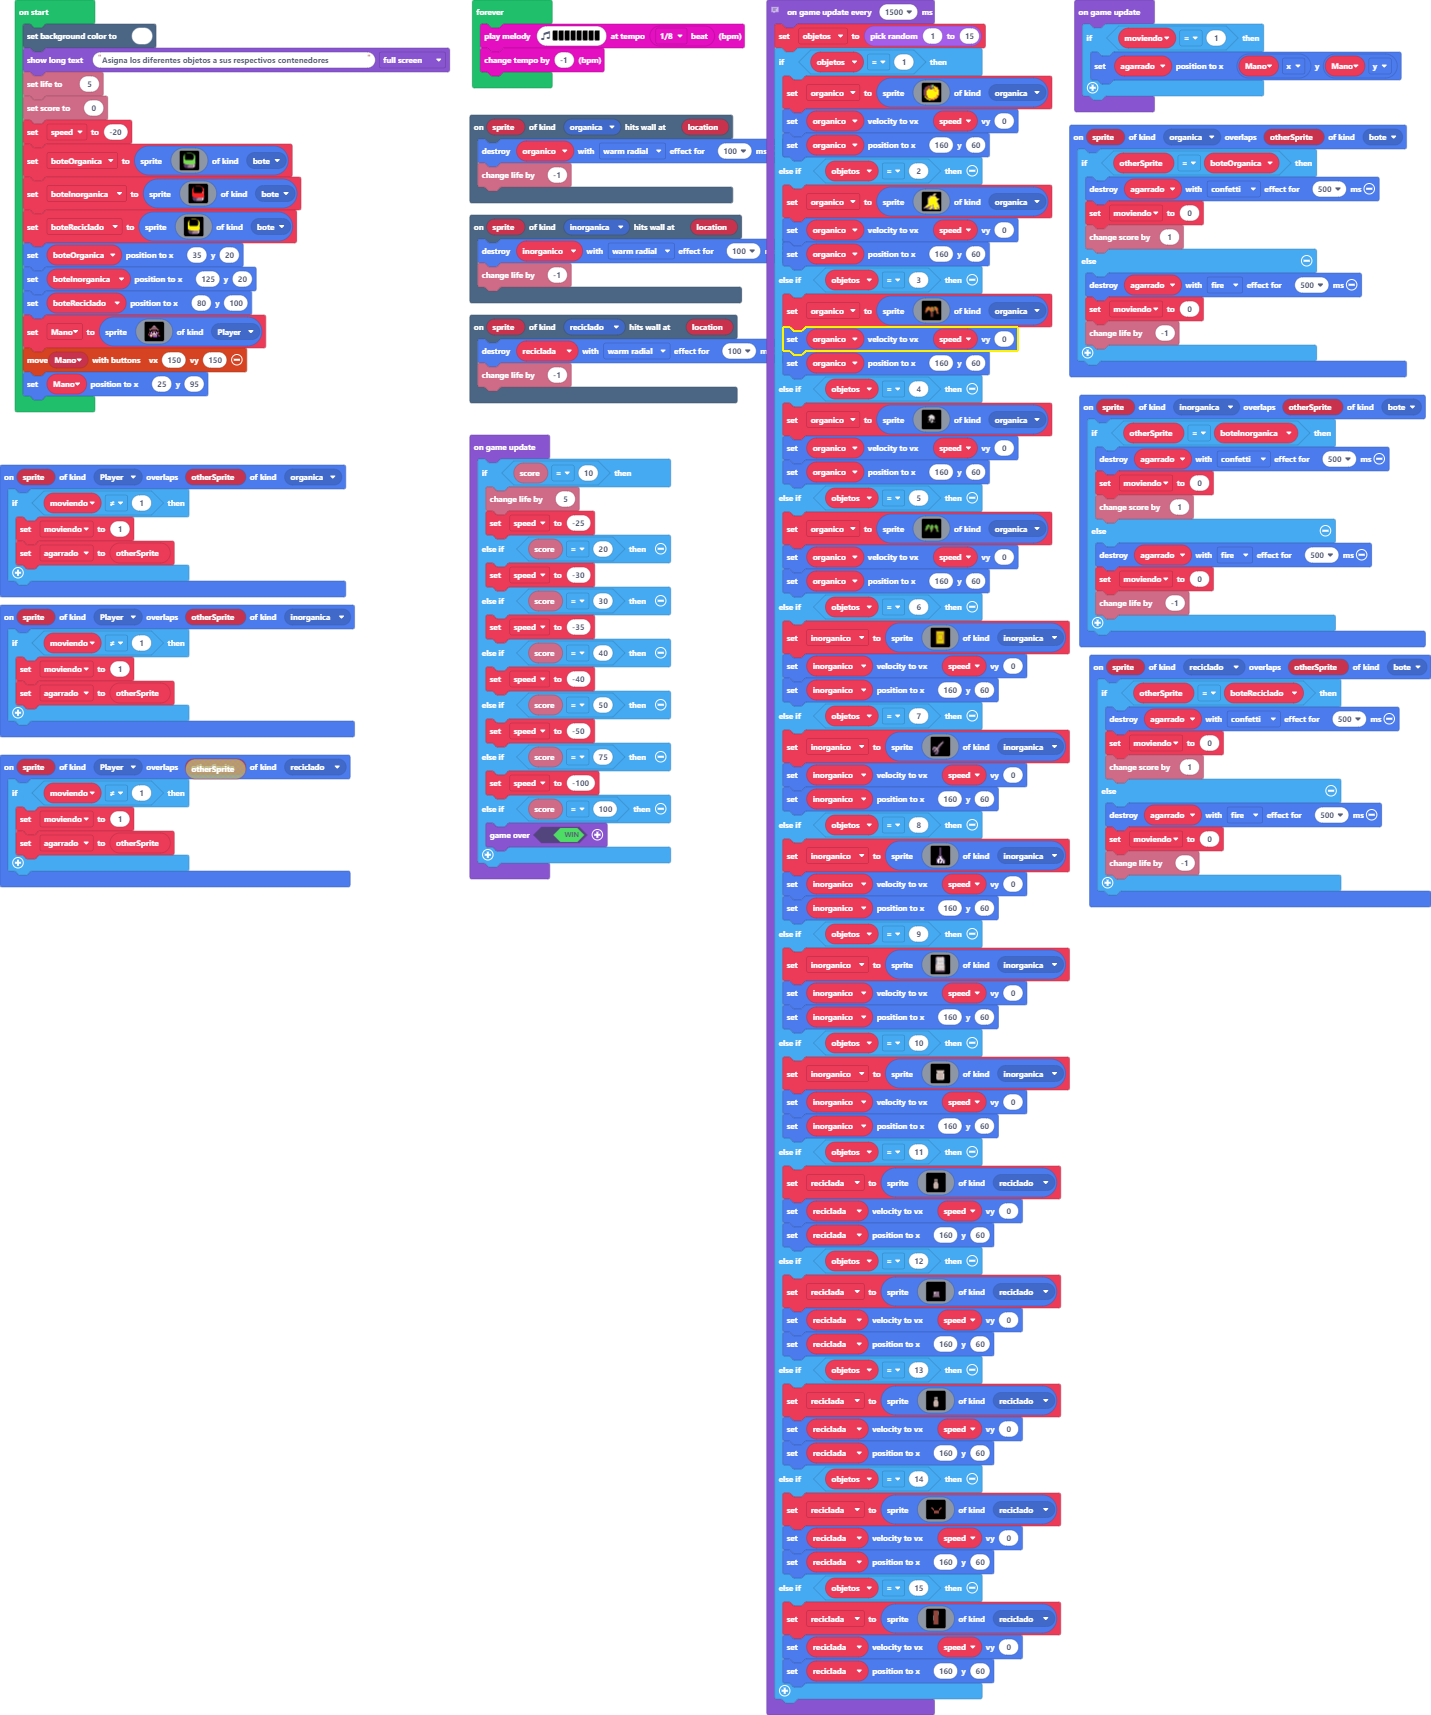
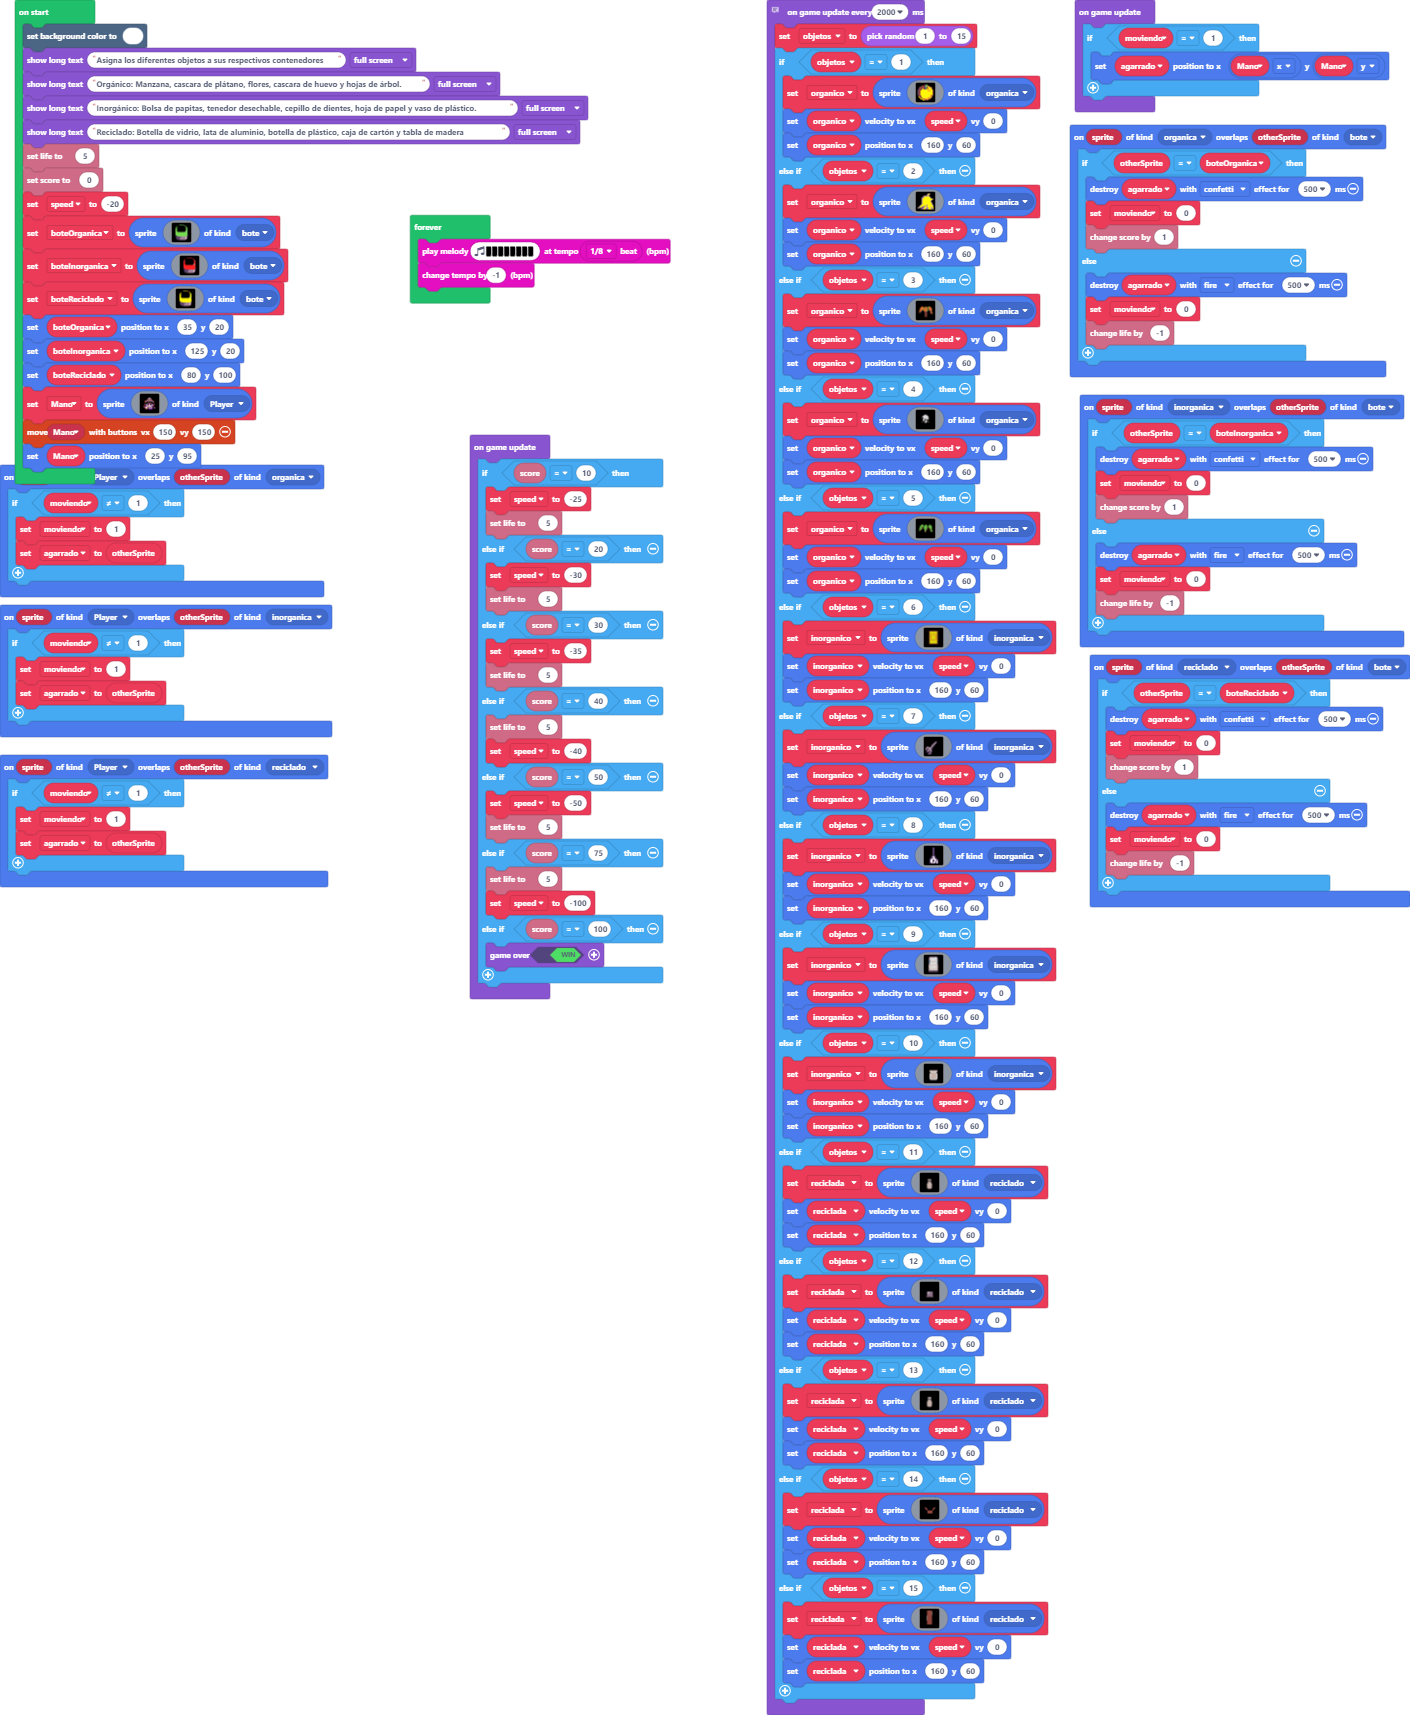
juego final

diff --git a/main.ts b/main.ts
@@ -16,10 +16,6 @@ sprites.onOverlap(SpriteKind.reciclado, SpriteKind.bote, function (sprite, other
         info.changeLifeBy(-1)
     }
 })
-scene.onHitWall(SpriteKind.reciclado, function (sprite, location) {
-    reciclada.destroy(effects.warmRadial, 100)
-    info.changeLifeBy(-1)
-})
 sprites.onOverlap(SpriteKind.organica, SpriteKind.bote, function (sprite, otherSprite) {
     if (otherSprite == boteOrganica) {
         agarrado.destroy(effects.confetti, 500)
@@ -31,19 +27,11 @@ sprites.onOverlap(SpriteKind.organica, SpriteKind.bote, function (sprite, otherS
         info.changeLifeBy(-1)
     }
 })
-scene.onHitWall(SpriteKind.inorganica, function (sprite, location) {
-    inorganico.destroy(effects.warmRadial, 100)
-    info.changeLifeBy(-1)
-})
 sprites.onOverlap(SpriteKind.Player, SpriteKind.inorganica, function (sprite, otherSprite) {
     if (moviendo != 1) {
         moviendo = 1
         agarrado = otherSprite
     }
-})
-scene.onHitWall(SpriteKind.organica, function (sprite, location) {
-    organico.destroy(effects.warmRadial, 100)
-    info.changeLifeBy(-1)
 })
 sprites.onOverlap(SpriteKind.Player, SpriteKind.reciclado, function (sprite, otherSprite) {
     if (moviendo != 1) {
@@ -68,10 +56,10 @@ sprites.onOverlap(SpriteKind.inorganica, SpriteKind.bote, function (sprite, othe
         info.changeLifeBy(-1)
     }
 })
-let objetos = 0
-let organico: Sprite = null
-let inorganico: Sprite = null
 let reciclada: Sprite = null
+let inorganico: Sprite = null
+let organico: Sprite = null
+let objetos = 0
 let moviendo = 0
 let agarrado: Sprite = null
 let boteReciclado: Sprite = null
@@ -79,6 +67,9 @@ let boteInorganica: Sprite = null
 let boteOrganica: Sprite = null
 scene.setBackgroundColor(1)
 game.showLongText("Asigna los diferentes objetos a sus respectivos contenedores", DialogLayout.Full)
+game.showLongText("Orgánico: Manzana, cascara de plátano, flores, cascara de huevo y hojas de árbol.", DialogLayout.Full)
+game.showLongText("Inorgánico: Bolsa de papitas, tenedor desechable, cepillo de dientes, hoja de papel y vaso de plástico.", DialogLayout.Full)
+game.showLongText("Reciclado: Botella de vidrio, lata de aluminio, botella de plástico, caja de cartón y tabla de madera", DialogLayout.Full)
 info.setLife(5)
 info.setScore(0)
 let speed = -20
@@ -214,17 +205,22 @@ game.onUpdate(function () {
 })
 game.onUpdate(function () {
     if (info.score() == 10) {
-        info.changeLifeBy(5)
         speed = -25
+        info.setLife(5)
     } else if (info.score() == 20) {
         speed = -30
+        info.setLife(5)
     } else if (info.score() == 30) {
         speed = -35
+        info.setLife(5)
     } else if (info.score() == 40) {
+        info.setLife(5)
         speed = -40
     } else if (info.score() == 50) {
         speed = -50
+        info.setLife(5)
     } else if (info.score() == 75) {
+        info.setLife(5)
         speed = -100
     } else if (info.score() == 100) {
         game.over(true)
@@ -732,7 +728,7 @@ game.onUpdate(function () {
 // game.showLongText("Ronda " + ronda, DialogLayout.Bottom)
 // }
 // })
-game.onUpdateInterval(1500, function () {
+game.onUpdateInterval(2000, function () {
     objetos = randint(1, 15)
     if (objetos == 1) {
         organico = sprites.create(img`
